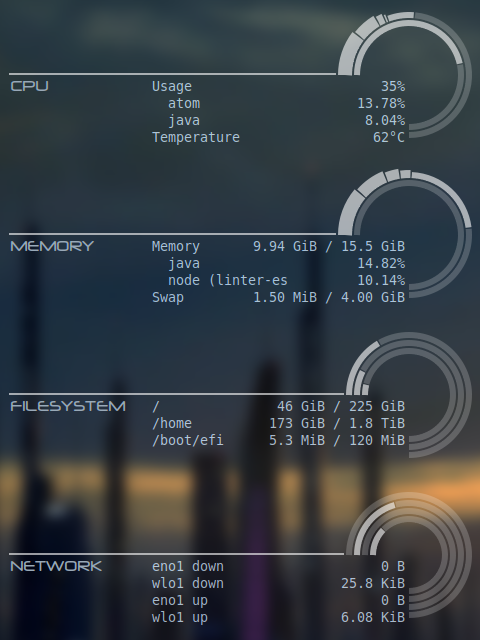
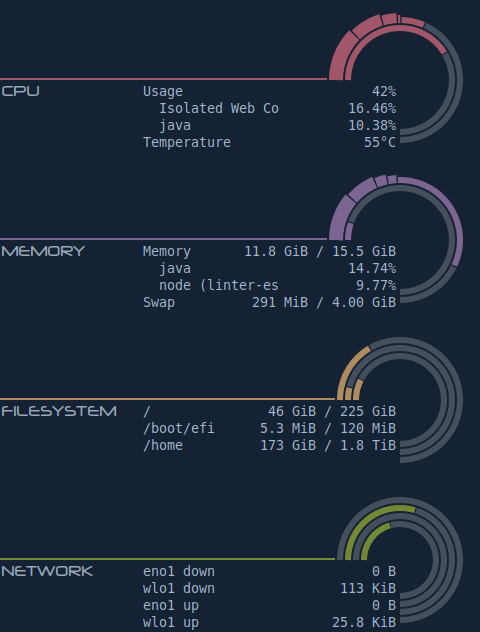
add default ring colors

diff --git a/README.md b/README.md
@@ -37,8 +37,9 @@ Update the values under the `config` block in each file as appropriate.
 
 - `bg_color` and `bg_alpha` define the color of the background (unused or
   unoccupied) part of the ring.
-- `fg_color` and `fg_alpha` define the color of the foreground (used or
-  occupied) part of the ring.
+- `fg_color_override` and `fg_alpha` define the color of the foreground (used
+  or occupied) part of the ring. If `fg_color_override` is `nil`, four default
+  colors are used, as shown in the screenshot above.
 - `network_ethernet` is the name of your Ethernet device (which you can
   obtain through `ip link`)
 - `network_wlan` is the name of your Wi-Fi device (which you can obtain
